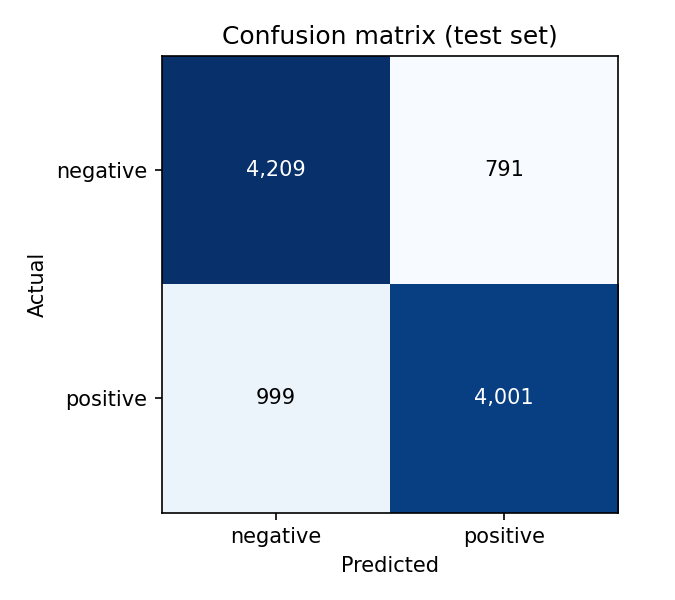
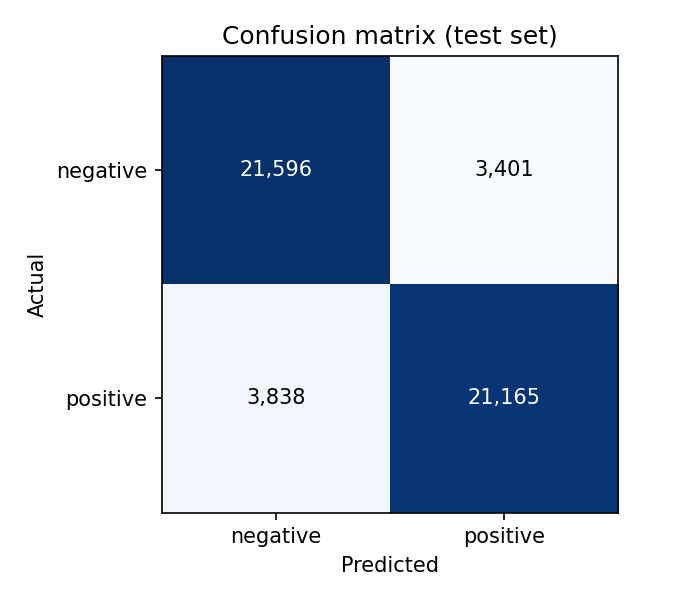
Report final results: 85.5% accuracy on 50,000 test tweets

diff --git a/README.md b/README.md
@@ -1,99 +1,159 @@
-# Tweet Sentiment Analyzer (DistilBERT, CPU-only)
+# Tweet Sentiment Analyzer
 
-Fine-tunes DistilBERT to classify tweets as positive or negative, trained on a 500K-tweet subset of [Sentiment140](http://help.sentiment140.com/) on a laptop CPU (AMD Ryzen 5 4500U, 6 cores, 16 GB RAM, no GPU). It includes scripts to evaluate on a held-out test set and to label any CSV of text.
+![CI](https://github.com/ngugiauraa/sentiment-analyzer/actions/workflows/ci.yml/badge.svg)
+
+A DistilBERT model fine-tuned to classify short English text, such as tweets and reviews, as **positive** or **negative**. It was trained on 400,000 Sentiment140 tweets using only a laptop CPU, and it is served through a REST API, a Docker image and a public demo page.
+
+**85.5% accuracy on 50,000 held-out test tweets.**
 
 ## Results
 
-Every number here was produced by `scripts/evaluate.py` on test tweets the model never saw during training. The full metrics are in `reports/metrics.json`.
+All numbers come from `scripts/evaluate.py`, run on the 50,000-tweet test split, which the model never saw during training. The full output is in `reports/metrics.json`.
 
-| Checkpoint | Training seen | Test rows | Accuracy | Macro F1 | Precision (pos) | Recall (pos) |
-| --- | --- | --- | --- | --- | --- | --- |
-| `checkpoint-500` | 16,000 tweets (4% of one epoch) | 10,000 (stratified sample of the 50K test split) | **82.10%** | **0.821** | 0.835 | 0.800 |
-
-Confusion matrix for `checkpoint-500` (rows = actual, columns = predicted):
+| Model | Test tweets | Accuracy | Macro F1 | Precision (pos) | Recall (pos) |
+| --- | --- | --- | --- | --- | --- |
+| Final (1 epoch, 12,500 steps) | 50,000 | **85.52%** | **0.855** | 0.862 | 0.847 |
+| Early checkpoint (500 steps) | 10,000 sample | 82.10% | 0.821 | 0.835 | 0.800 |
 
 | | Predicted negative | Predicted positive |
 | --- | --- | --- |
-| **Actual negative** | 4,209 | 791 |
-| **Actual positive** | 999 | 4,001 |
+| **Actual negative** | 21,596 | 3,401 |
+| **Actual positive** | 3,838 | 21,165 |
 
 ![Confusion matrix](reports/confusion_matrix.png)
 
-**Training status:** the full run is one epoch over 400,000 tweets (12,500 optimizer steps), which takes about 18 hours on this laptop. The table above is an early checkpoint. When training finishes, run `python scripts/evaluate.py` (full 50K test set, final model) and replace this table with that row.
+During training, the validation loss fell at each 2,500-step check: 0.383, 0.378, 0.335, 0.337, and finally 0.326.
 
 ### What the errors show
+The model's most confident mistakes (`reports/misclassified.csv`) are mostly **label noise**. Sentiment140 was labelled automatically from emoticons, so a tweet like "thanks Kacie" carries a *negative* label because the original tweet ended in `:(`. Short, context-free tweets ("I don't know") are genuinely ambiguous. Together these set a ceiling on how accurate any model can be on this dataset.
 
-`reports/misclassified.csv` lists the model's most confident mistakes. Many are **label noise, not model errors**. Sentiment140 was labelled automatically from emoticons, so tweets like "thanks Kacie" and "what's so funny!" carry a *negative* label because the original tweet had a `:(`. Short, context-free tweets ("I don't know") are also genuinely ambiguous. This noise caps the accuracy any model can reach on this dataset.
+## How the project fits together
 
-## How it works
+```mermaid
+flowchart LR
+    RAW[Sentiment140<br/>1.6M tweets] --> PRE[preprocess.py<br/>clean, 500K stratified subset,<br/>80/10/10 split]
+    PRE --> TR[train.py<br/>DistilBERT fine-tune on CPU,<br/>checkpoint every 500 steps]
+    TR --> M[(models/final)]
+    M --> EV[evaluate.py<br/>accuracy, F1, confusion matrix]
+    M --> PUB[publish_model.py] --> HUB[(Hugging Face Hub)]
+    HUB --> API[FastAPI service<br/>Docker image]
+    HUB --> DEMO[Gradio demo page]
+    M --> INF[inference.py<br/>CSV in, CSV out]
+```
 
-| Step | Script | Details |
-| --- | --- | --- |
-| Prepare | `scripts/preprocess.py` | Removes URLs and @mentions but keeps hashtags and emoticon punctuation. Takes a stratified 500K subset of the 1.6M tweets, then splits it 80/10/10 into **400K train / 50K val / 50K test**, label-balanced (`random_state=42`). |
-| Train | `scripts/train.py` | `distilbert-base-uncased`, 1 epoch, batch 16 × 2 gradient accumulation (effective 32), learning rate 5e-5, max 48 tokens with dynamic padding. |
-| Evaluate | `scripts/evaluate.py` | Accuracy, precision, recall, F1 and confusion matrix on the test split. Writes `reports/`. |
-| Use | `scripts/inference.py` | CSV in, CSV out with `sentiment` and `confidence` columns added. |
+```
+sentiment/            shared package: text cleaning + model loading and prediction
+scripts/              preprocess, train, evaluate, inference, publish_model
+api/main.py           FastAPI service: POST /predict, GET /health, docs at /docs
+demo/                 Gradio app for the public demo (Hugging Face Spaces)
+tests/                API and text-cleaning tests (run without downloading the model)
+Dockerfile            CPU image that serves the API
+.github/workflows/    CI: lint, tests and Docker build on every push
+reports/              metrics.json and confusion_matrix.png from the latest evaluation
+```
 
-### Training on a laptop CPU
+Training data prep, evaluation, the API and the demo all use the same `sentiment` package. Text is cleaned the same way and the model is loaded the same way everywhere, so the API cannot quietly behave differently from what was evaluated.
 
-The settings were chosen from measurements on this machine:
-- **Threads:** 4 of 6. One batch of 16 took 2.63 s on 4 threads against 2.33 s on 6. Six threads was only 11% faster but left Windows no free cores, which made the laptop lag.
-- **Speed and heat during the run:** about 5.2 s per optimizer step, hottest thermal zone 73 °C, CPU running at 125% of base clock. The CPU was boosting, not throttling.
-- **Short sequences:** max 48 tokens with dynamic padding. Tweets are short, so most batches are much smaller than 48 tokens.
-- **Checkpoints:** saved every 500 steps (about 45 minutes) and never deleted. A full epoch's checkpoints take about 19 GB (767 MB each).
-- **Resume:** running `python scripts/train.py` again resumes from the latest checkpoint.
-- **Run guard:** it refuses to start a second run while one is active (`logs/train.lock`), and refuses to retrain once `models/final` exists (unless you pass `--force`).
-
-## Setup
+## Use the API
 
 ```bash
-python -m venv venv
-source venv/Scripts/activate          # Windows Git Bash; venv/bin/activate on macOS/Linux
+pip install torch==2.3.1 --index-url https://download.pytorch.org/whl/cpu
+pip install -r requirements-api.txt
+uvicorn api.main:app --port 8000
+```
+
+```bash
+curl -X POST localhost:8000/predict -H "Content-Type: application/json" \
+  -d '{"texts": ["Stuck in Nairobi traffic for 3 hours", "Thanks for the quick delivery"]}'
+```
+
+```json
+{
+  "predictions": [
+    {"text": "Stuck in Nairobi traffic for 3 hours", "sentiment": "negative", "confidence": 0.9901},
+    {"text": "Thanks for the quick delivery", "sentiment": "positive", "confidence": 0.97}
+  ],
+  "model": "models/final",
+  "elapsed_ms": 85.2
+}
+```
+
+The API accepts up to 100 texts per request, and interactive docs are at `/docs`.
+
+The model is read from `MODEL_SOURCE`, which can be:
+- a local folder;
+- a Hugging Face repo id;
+- unset, in which case it uses `models/final` if present, otherwise the published model.
+
+### With Docker
+
+```bash
+docker build -t sentiment-api .
+docker run -p 8000:8000 sentiment-api                       # downloads the published model
+docker run -p 8000:8000 -v ./models/final:/model -e MODEL_SOURCE=/model sentiment-api   # local weights
+```
+
+## Reproduce the training
+
+```bash
+python -m venv venv && source venv/Scripts/activate   # venv/bin/activate on macOS/Linux
 pip install -r requirements.txt
 ```
 
-Data (not in the repo; too big, and it isn't ours to redistribute):
-
-1. Download `trainingandtestdata.zip` from the Sentiment140 site (or Kaggle: `kazanova/sentiment140`).
-2. Extract `training.1600000.processed.noemoticon.csv` and save it as `data/raw/sentiment140.csv`.
-3. Run `python scripts/preprocess.py`.
-
-## Usage
+1. **Get the data.** Download `trainingandtestdata.zip` from the Sentiment140 site, or from Kaggle as `kazanova/sentiment140`. Save `training.1600000.processed.noemoticon.csv` as `data/raw/sentiment140.csv`.
+2. **Run the pipeline:**
 
 ```bash
-python scripts/train.py                                   # trains or resumes; TRAIN_THREADS=4 by default
-python scripts/evaluate.py                                # final model, full 50K test set
-python scripts/evaluate.py --model models/checkpoints/checkpoint-500 --limit 10000
+python scripts/preprocess.py     # 400K train / 50K val / 50K test
+python scripts/train.py          # about 18 hours on a 6-core laptop CPU; resumes after interruption
+python scripts/evaluate.py       # writes reports/
 python scripts/inference.py --input examples/sample_input.csv
-python scripts/inference.py --text "Stuck in Nairobi traffic for 3 hours"
 ```
 
-Example output of `inference.py --input examples/sample_input.csv` with `checkpoint-500`:
+### Training on a laptop CPU
+The machine was an AMD Ryzen 5 4500U (6 cores, 15 W, 16 GB RAM), so the settings were chosen from measurements.
 
-| text | sentiment | confidence |
-| --- | --- | --- |
-| Great match today, what a goal! | positive | 0.957 |
-| Stuck in Nairobi traffic for 3 hours | negative | 0.932 |
-| Thanks for the quick delivery | positive | 0.972 |
+- **Threads:** 4 of 6. A batch of 16 took 2.63 s with 4 threads and 2.33 s with 6, so 6 threads is only 11% faster and leaves the OS no free cores, which made the laptop lag.
+- **Temperature:** during the run the CPU held 73 °C at 125% of base clock. It was boosting, not throttling.
+- **Short sequences:** max 48 tokens with dynamic padding, so batches are only as long as their longest tweet.
+- **Checkpoints:** saved every 500 steps (767 MB each) and never deleted, so an interrupted run resumes where it stopped.
+- **Run guard:** the script refuses to start a second run while one is active, and won't retrain over a finished model without `--force`.
+
+| Setting | Value |
+| --- | --- |
+| Base model | `distilbert-base-uncased` |
+| Epochs | 1 (12,500 optimizer steps) |
+| Batch size | 16 × 2 gradient accumulation = 32 |
+| Learning rate | 5e-5, linear decay |
+| Max length | 48 tokens |
+| Wall time | about 15.5 hours |
+
+## Publish the model and the live demo
+
+Both are free on Hugging Face. Create an account and a "Write" access token, then:
+
+```bash
+pip install -r requirements-dev.txt
+huggingface-cli login
+python scripts/publish_model.py
+```
+
+This uploads the model with a model card built from `reports/metrics.json`, and deploys the Gradio demo to a public page.
+
+## Tests
+
+```bash
+pip install -r requirements-dev.txt
+ruff check .
+pytest
+```
+
+GitHub Actions runs the same checks and builds the Docker image on every push.
 
 ## Screenshots to take
 
-1. **Training in progress:** the terminal or `logs/train.stderr.log` showing the progress bar (step x/12,500, s/it) and a loss line.
-2. **Task Manager during training:** CPU around half used, with 2 cores' worth free, and RAM.
-3. **`evaluate.py` output:** the classification report and confusion matrix in the terminal (redo after the final model).
-4. **`reports/confusion_matrix.png`.**
-5. **`inference.py --text ...`** on a few of your own sentences, including one it gets wrong, which makes for a good talking point.
-6. **The `models/checkpoints/` folder** showing checkpoints every 500 steps, to illustrate resumable training.
-
-## Project layout
-
-```
-scripts/preprocess.py     clean + subsample + split
-scripts/train.py          fine-tune with checkpoints, resume and a run guard
-scripts/evaluate.py       metrics, confusion matrix, misclassified examples
-scripts/inference.py      label new text (CSV or command line)
-scripts/predict_utils.py  shared model loading and batched prediction
-reports/                  metrics.json and confusion_matrix.png from the latest evaluation
-examples/                 a tiny sample CSV for inference
-data/, models/, logs/     gitignored: dataset, weights and logs never go to GitHub
-```
+1. The live demo page with a few of your own sentences.
+2. `/docs` (Swagger UI) with a `/predict` call and its response.
+3. `reports/confusion_matrix.png`.
+4. The green CI run on GitHub Actions.
+5. The `models/checkpoints/` folder, showing resumable training.
